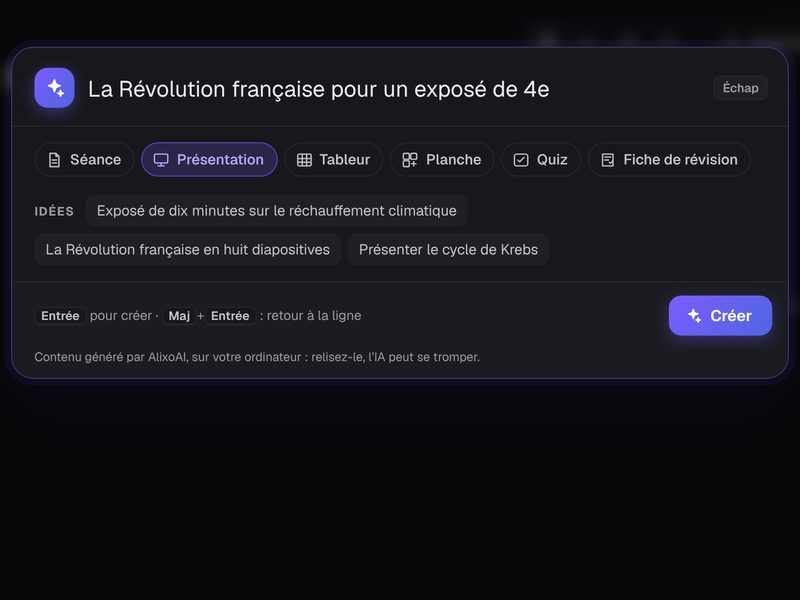
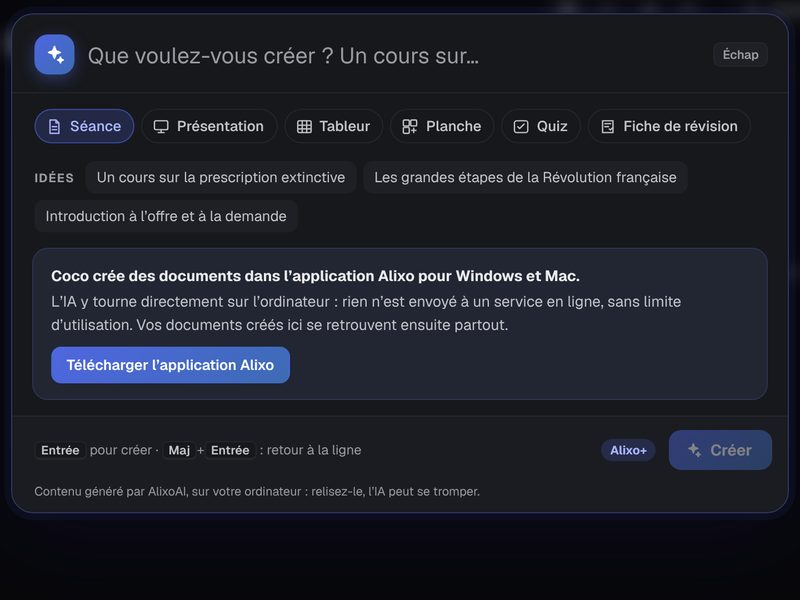
Application web 1.55.1 → alixoapp.com/docs
Publiée depuis ultra-project/alixo-src@bd72a3bb0754a2f6915d682f2b4b200330efbaec

Changed region(s): [[0.0, 0.0, 1.0, 0.87], [0.6562, 0.06, 0.8438, 0.09]]

diff --git a/docs/js/app.js b/docs/js/app.js
@@ -24,7 +24,7 @@ const safeTint = c => (HEX_COLOR.test(String(c || '')) ? c : DEFAULT_TINT);
    quand aucun dossier n'est affiché ; DEFAULT_TINT reste la valeur de repli des données */
 function defaultTint() { try { const v = getComputedStyle(document.documentElement).getPropertyValue('--accent').trim(); if (v) return v; } catch { /* hors navigateur */ } return DEFAULT_TINT; }
 /* version de l'application (tenue à jour avec package.json) — sert aux notifications « nouvelle version installée » */
-const ALIXO_VERSION = '1.55.0';
+const ALIXO_VERSION = '1.55.1';
 /* version web d'Alixo (GitHub Pages) et téléchargement de la version PC */
 const ALIXO_WEB_URL = 'https://alixoapp.com/docs/';
 /* 1.23 : tout passe par le site (pages de téléchargement et de versions) — jamais de lien direct vers l'hébergement des fichiers */
@@ -1087,13 +1087,13 @@ function renderLibrary() {
   document.body.classList.toggle('lib-agenda', libMode === 'agenda' || libMode === 'shared' || libMode === 'todo' || libMode === 'workspace' || libMode === 'artefacts');
   renderAgendaNav();
   const lnS = $('#ln-shared'); if (lnS) lnS.classList.toggle('active', libMode === 'shared' && !currentDocId);
+  /* 1.55 : Artéfacts (js/artefacts.js) — documents créés par Coco ; masqué et désactivé AVANT la branche Workspace, qui sort tôt (1.55.1 : les deux vues s’affichaient ensemble) */
+  const lnA = $('#ln-artefacts'); if (lnA) lnA.classList.toggle('active', libMode === 'artefacts' && !currentDocId);
+  const la = $('#lib-artefacts'); if (la) la.hidden = libMode !== 'artefacts';
   /* 1.53 : Workspace (js/workspace.js) — dépôts publics de séances ; le conteneur #lib-workspace n'est visible que dans ce mode */
   const lnW = $('#ln-workspace'); if (lnW) lnW.classList.toggle('active', libMode === 'workspace' && !currentDocId);
   const lw = $('#lib-workspace'); if (lw) lw.hidden = libMode !== 'workspace';
   if (libMode === 'workspace') { $('#doc-grid').hidden = true; $('#lib-tree').hidden = true; $('#lib-galaxy').hidden = true; $('#lib-agenda').hidden = true; $('#lib-shared').hidden = true; const ltw = $('#lib-todo'); if (ltw) ltw.hidden = true; $('#lib-title').textContent = 'Workspace'; $('#lib-path').innerHTML = '<span>Cours déposés par les membres</span>'; if (window.AlixoWorkspace) AlixoWorkspace.render(); else if (lw) lw.innerHTML = '<div class="sh-empty">Connectez-vous pour accéder au Workspace.</div>'; return; }
-  /* 1.55 : Artéfacts (js/artefacts.js) — documents créés par Coco */
-  const lnA = $('#ln-artefacts'); if (lnA) lnA.classList.toggle('active', libMode === 'artefacts' && !currentDocId);
-  const la = $('#lib-artefacts'); if (la) la.hidden = libMode !== 'artefacts';
   if (libMode === 'artefacts') { $('#doc-grid').hidden = true; $('#lib-tree').hidden = true; $('#lib-galaxy').hidden = true; $('#lib-agenda').hidden = true; $('#lib-shared').hidden = true; if (lw) lw.hidden = true; const lta = $('#lib-todo'); if (lta) lta.hidden = true; $('#lib-title').textContent = 'Artéfacts'; $('#lib-path').innerHTML = '<span>Créés par Coco</span>'; if (window.AlixoArtefacts) AlixoArtefacts.render(); return; }
   const lnT = $('#ln-todo'); if (lnT) lnT.classList.toggle('active', libMode === 'todo' && !currentDocId);
   const lt = $('#lib-todo');

diff --git a/docs/cococreate.css b/docs/cococreate.css
@@ -2,21 +2,17 @@
    1.55 : Coco crée des documents (js/cococreate.js) — bouton « IA » de la bibliothèque et barre de commande centrale
    Accent violet-bleu (--cc-a / --cc-b), distinct du bleu plein de « Nouveau ».
    ============================================================ */
-:root { --cc-a: #7c5cff; --cc-b: #4f66e0; --cc-ink: #5b3fd6; --cc-soft: rgba(124, 92, 255, .12); }
-html[data-theme="dark"] { --cc-ink: #b9a8ff; --cc-soft: rgba(124, 92, 255, .2); }
+/* 1.55.1 : palette alignée sur la charte Alixo (bleu d’accent) au lieu d’un violet à part */
+:root { --cc-a: #4f66e0; --cc-b: #3d6bb5; --cc-ink: #3f55c9; --cc-soft: rgba(79, 102, 224, .12); }
+html[data-theme="dark"] { --cc-ink: #a9b6ff; --cc-soft: rgba(79, 102, 224, .22); }
 .cc-sr { position: absolute !important; width: 1px; height: 1px; overflow: hidden; clip: rect(0 0 0 0); white-space: nowrap; }
 
-/* ---------- bouton « IA » (à droite de « Nouveau ») ---------- */
-.lib-actions .cta.lib-ai, #btn-ai-new.lib-ai {
-  display: inline-flex; align-items: center; gap: 6px; padding: 0 14px 0 11px; border-radius: 999px; font-weight: 650;
-  color: var(--cc-ink); border: 1px solid color-mix(in srgb, var(--cc-a) 40%, transparent);
-  background: linear-gradient(135deg, color-mix(in srgb, var(--cc-a) 16%, transparent), color-mix(in srgb, var(--cc-b) 10%, transparent));
-  transition: background .15s, box-shadow .15s, transform .15s;
-}
-#btn-ai-new.lib-ai svg { width: 16px; height: 16px; fill: currentColor; stroke: none; }
-#btn-ai-new.lib-ai:hover { filter: none; background: linear-gradient(135deg, color-mix(in srgb, var(--cc-a) 26%, transparent), color-mix(in srgb, var(--cc-b) 18%, transparent)); box-shadow: 0 2px 10px color-mix(in srgb, var(--cc-a) 25%, transparent); }
-#btn-ai-new.lib-ai:active { transform: scale(.97); }
-#btn-ai-new.lib-ai:focus-visible { outline: 2px solid var(--cc-a); outline-offset: 2px; }
+/* ---------- bouton « IA » (à droite de « Nouveau ») ----------
+   1.55.1 : même famille que « Importer » (.cta.ghost de refonte.css) — ni dégradé ni étincelle, juste « IA » en gras à la
+   couleur d'accent d'Alixo : il reste dans la charte au lieu de ressembler à un bouton d'un autre produit. */
+#btn-ai-new.lib-ai { font-weight: 700; letter-spacing: .02em; color: var(--accent); padding-inline: 14px; }
+#btn-ai-new.lib-ai:hover { color: var(--accent); border-color: color-mix(in srgb, var(--accent) 50%, var(--border)); }
+#btn-ai-new.lib-ai:focus-visible { outline: 2px solid var(--accent); outline-offset: 2px; }
 
 /* ---------- barre de commande ---------- */
 .cc-ov {

diff --git a/docs/artefacts.css b/docs/artefacts.css
@@ -9,10 +9,10 @@ body:not(.mobile) .art-wrap { padding-top: 43px; }
 .art-top { display: flex; align-items: center; gap: 16px; padding: 0 2px 16px; }
 .art-top-l { flex: 1; min-width: 0; }
 .art-h { display: flex; align-items: center; gap: 10px; font-weight: 650; font-size: 26px; letter-spacing: -.015em; line-height: 1.15; margin: 0; color: var(--ink); }
-.art-h svg { width: 24px; height: 24px; fill: var(--cc-a, #7c5cff); }
+.art-h svg { width: 24px; height: 24px; fill: var(--cc-a, #4f66e0); }
 .art-sub { font-size: 13px; color: var(--ink-3); margin-top: 4px; }
 .art-create { display: inline-flex; align-items: center; gap: 7px; padding: 9px 16px 9px 13px; border: 0; border-radius: 999px; color: #fff; font: 650 13.5px var(--font-ui); cursor: pointer;
-  background: linear-gradient(135deg, var(--cc-a, #7c5cff), var(--cc-b, #4f66e0)); box-shadow: 0 4px 14px rgba(124, 92, 255, .3); }
+  background: linear-gradient(135deg, var(--cc-a, #4f66e0), var(--cc-b, #3d6bb5)); box-shadow: 0 4px 14px rgba(79, 102, 224, .3); }
 .art-create svg { width: 16px; height: 16px; fill: currentColor; }
 .art-create:hover { filter: brightness(1.08); }
 .art-create.big { padding: 12px 22px 12px 17px; font-size: 15px; margin-top: 6px; }
@@ -37,7 +37,7 @@ body:not(.mobile) .art-wrap { padding-top: 43px; }
 .art-ico { width: 34px; height: 34px; border-radius: 10px; display: grid; place-items: center; color: #fff; background: var(--ak); flex: none; }
 .art-ico svg { width: 18px; height: 18px; fill: none; stroke: currentColor; stroke-width: 1.9; stroke-linecap: round; stroke-linejoin: round; }
 .art-kind { font-size: 11.5px; font-weight: 700; text-transform: uppercase; letter-spacing: .06em; color: color-mix(in srgb, var(--ak) 80%, var(--ink)); }
-.art-spark { margin-left: auto; color: var(--cc-a, #7c5cff); opacity: .8; display: grid; }
+.art-spark { margin-left: auto; color: var(--cc-a, #4f66e0); opacity: .8; display: grid; }
 .art-spark svg { width: 16px; height: 16px; fill: currentColor; }
 .art-body { display: flex; flex-direction: column; gap: 4px; padding: 12px 14px 8px; }
 .art-title { font-size: 15px; font-weight: 650; line-height: 1.3; color: var(--ink); display: -webkit-box; -webkit-line-clamp: 2; -webkit-box-orient: vertical; overflow: hidden; }

diff --git a/docs/js/whatsnew-scenes.js b/docs/js/whatsnew-scenes.js
@@ -11,12 +11,12 @@
      une phrase, 2 à 4 puces commençant par un <b>mot-clé</b>, une illustration `art`), une « outro » ;
    - le texte reprend la section « Nouveautés x.y.z » du README en langage d'utilisateur (jamais de
      nom de fichier ni de fonction).
-   Aperçu : index.html?nouveautes=1.55.0 (ou nouveautes.html?v=1.55.0 en page seule).
+   Aperçu : index.html?nouveautes=1.55.1 (ou nouveautes.html?v=1.55.1 en page seule).
    ============================================================ */
 'use strict';
 
 /* 1.55 : Coco crée vos documents, Artéfacts, bannières de dossiers, explorateur, Workspace repensé, fenêtres floutées, polices multiples */
-AlixoWhatsNew.register('1.55.0', {
+const SCENES_155 = {
   scenes: [
     { kind: 'intro', kicker: 'Mise à jour installée', title: 'Coco crée,<br>vos cours s’habillent', text: 'Huit nouveautés pour créer plus vite et vous retrouver plus facilement.' },
     { title: 'Coco <em>crée</em> vos documents', text: 'Le bouton « IA », à droite de « Nouveau », ouvre une barre au centre de l’écran.',
@@ -39,7 +39,9 @@ AlixoWhatsNew.register('1.55.0', {
       art: 'text', accent: '#b3762a', accent2: '#c04343', dur: 8000 },
     { kind: 'outro', kicker: 'Bonne séance', title: 'À vous de créer.', text: 'Le détail est sur alixoapp.com/versions — et dans Paramètres › À propos.', dur: 6000 }
   ]
-});
+};
+AlixoWhatsNew.register('1.55.1', SCENES_155);   // 1.55.1 : correctifs — même présentation que la 1.55.0
+AlixoWhatsNew.register('1.55.0', SCENES_155);
 
 /* 1.54 : présentations — animations et transitions, vidéos et quiz, thèmes signature, banque d'images, mode présentation et vue présentateur */
 AlixoWhatsNew.register('1.54.0', {

diff --git a/docs/js/cococreate.js b/docs/js/cococreate.js
@@ -243,7 +243,7 @@ window.AlixoCocoCreate = (() => {
   function bind() {
     const b = document.getElementById('btn-ai-new'); if (!b || b.dataset.ccBound) return;
     b.dataset.ccBound = '1';
-    b.innerHTML = `${SPARK}<span>IA</span>`;
+    b.textContent = 'IA';   // 1.55.1 : libellé seul, dans le style des autres boutons de la barre
     b.setAttribute('aria-haspopup', 'dialog');
     b.setAttribute('aria-label', 'Créer avec l’IA');   // 1.55 : le libellé visible « IA » seul ne dit pas l'action
     b.addEventListener('click', () => open());
